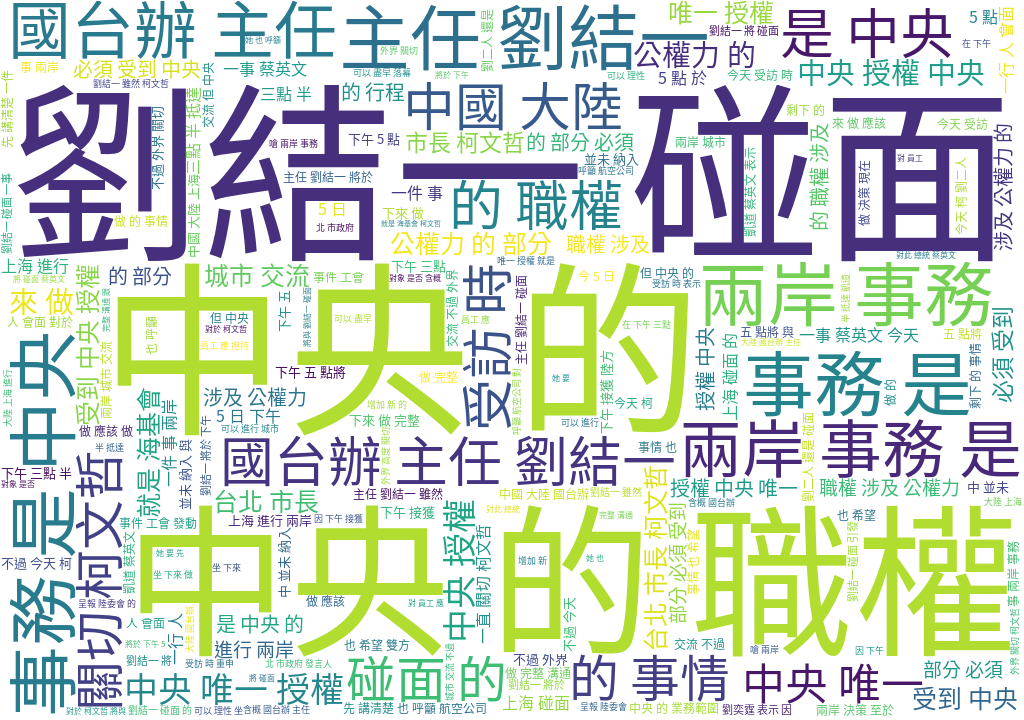
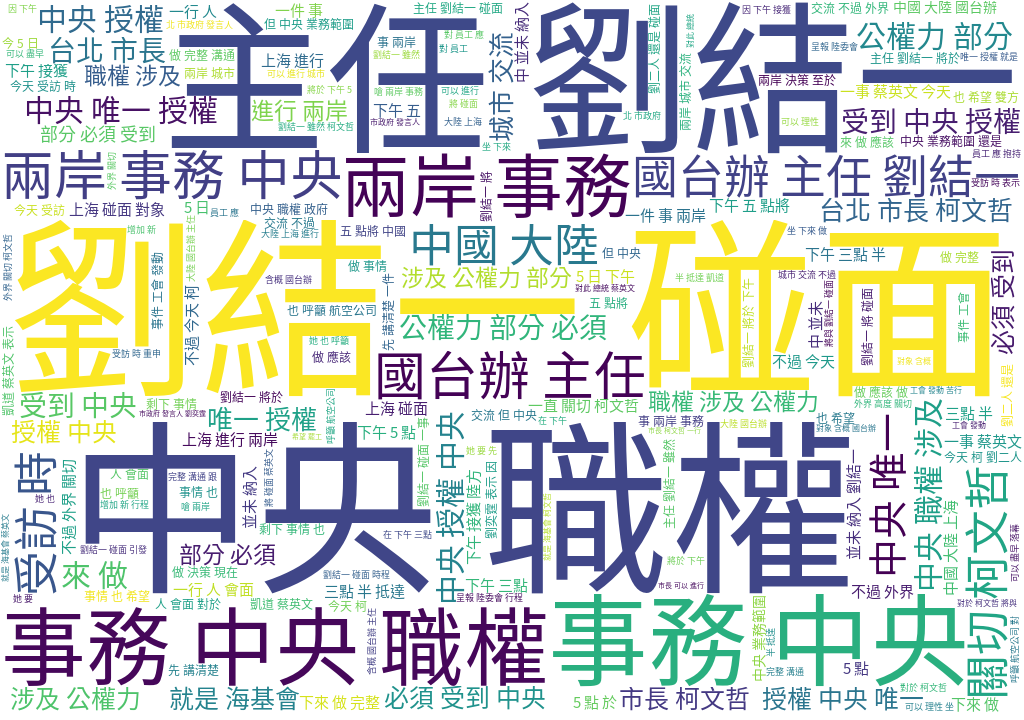
add chinese stop words

diff --git a/week1/chinese_news_analyse.py b/week1/chinese_news_analyse.py
@@ -17,6 +17,9 @@ articles = [re.sub('[^\u4E00-\u9FA5A-Za-z0-9]', ' ', article)
 jieba.set_dictionary('dict.txt.big')
 jieba.load_userdict('dict.txt')
 
+with open('stop_words.txt') as fd:
+    stop_words = fd.read().split()
+
 def tokenizer(sentence, flit=[' '], **kwargs):
     return [token for token in jieba.cut(sentence, **kwargs)
         if token not in flit]
@@ -30,13 +33,15 @@ def produce_wordcloud(features, vector, file_name):
     wordcloud_img(dict((k, v) for k, v in zip(features, vector) if v != 0.),
                   file_name)
 
-features, matrix = feature_and_matrix(articles, tokenizer=tokenizer)
+features, matrix = feature_and_matrix(articles, tokenizer=tokenizer,
+                                      stop_words=stop_words)
 for i, vector in enumerate(matrix):
     produce_wordcloud(features, vector, f'image/Chinese_News_{i}.png')
 print(f'1-gram TF-IDF cosine similarity: {cosine_similarity(matrix)[0, 1]}')
 
 
 features, matrix = feature_and_matrix(articles, tokenizer=tokenizer,
+                                      stop_words=stop_words,
                                       ngram_range=(2, 3))
 for i, vector in enumerate(matrix):
     produce_wordcloud(features, vector, f'image/Chinese_News_{i}_2+3-gram.png')
